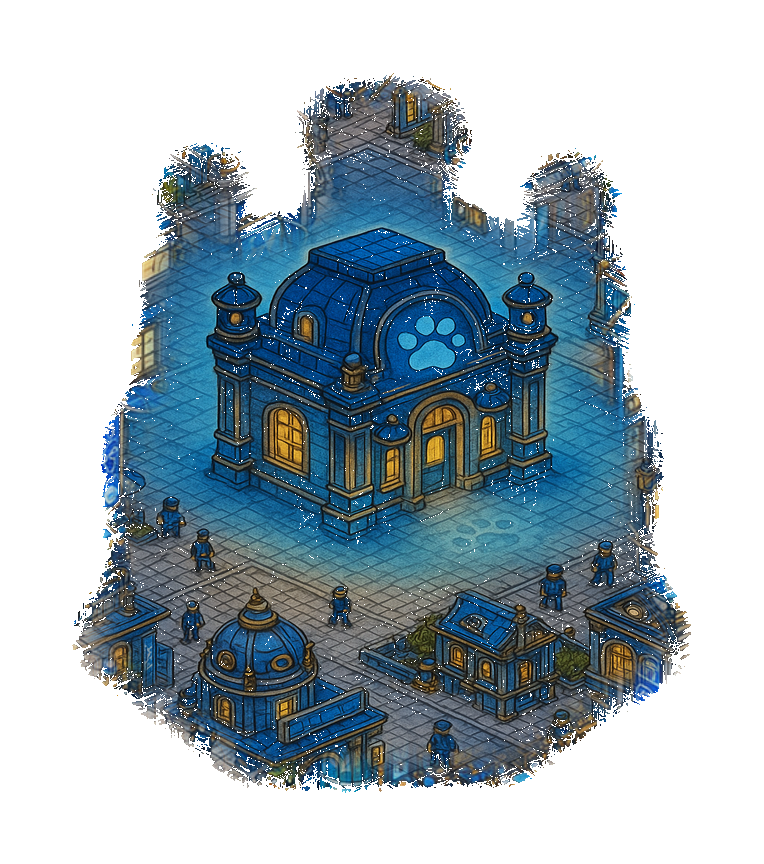
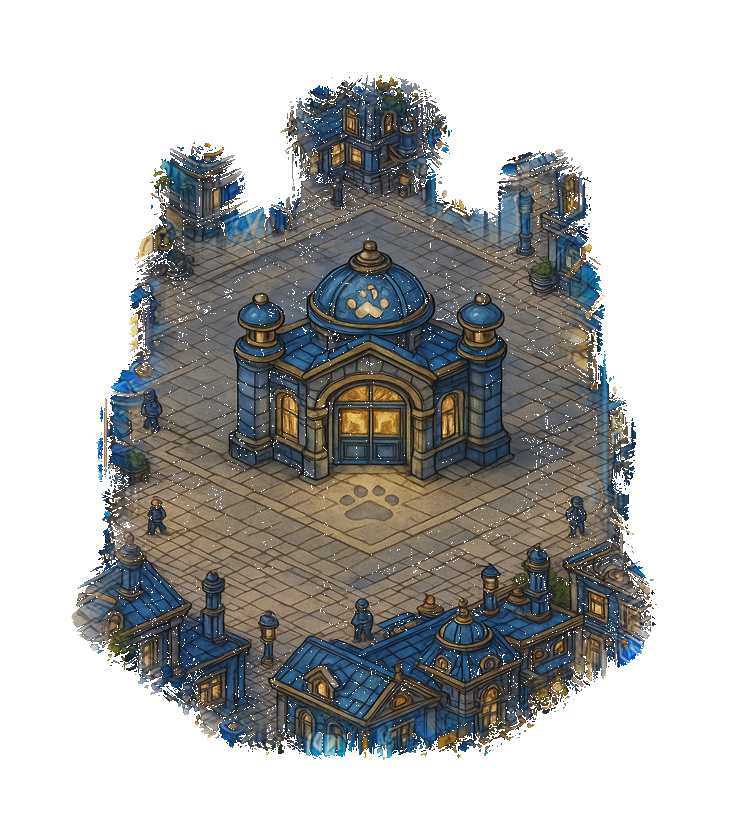
feat: refresh repaint art and move tourism kiosk
- tighten repaint prompts toward built landmark replacements
- lock in refreshed glyph halo art and appearance manifest updates
- move the Department of Tourism outside the town edge

diff --git a/lib/glyphHalo.ts b/lib/glyphHalo.ts
@@ -17,6 +17,7 @@ type GlyphHaloConfig = {
 
 type SpriteLike = {
   stopId: string;
+  district?: string;
   width: number;
   height: number;
   inpaintHalo?: GlyphHaloConfig;
@@ -38,19 +39,85 @@ const GLYPH_HALO_OUTPUT_ROOT = "/art/town/glyph-halos";
 const GLYPH_HALO_DEFAULT_RADIAL_SCALE = 1.2;
 const GLYPH_HALO_DEFAULT_PADDING = 24;
 const GLYPH_HALO_DEFAULT_THRESHOLD = 10;
+const GLYPH_HALO_SPREAD_TIGHTENING = 0.7;
+const LEGACY_OPEN_CENTER_SENTENCE =
+  /Keep the center composition open enough for the foreground .*?without doubling the silhouette\.\s*/;
+const BAKED_LANDMARK_SUFFIX =
+  "The final accepted state hides the separate foreground sprite, so do not leave an empty center or a placeholder halo. Recreate the landmark itself directly in the painted scene so the site still reads clearly and stays clickable after the sprite disappears. Ground it into the district art with solid structure, readable silhouette, and materials that belong to the environment.";
+const ARCHITECTURAL_LANDMARK_SUFFIX =
+  "Favor compact 3D landmark reads over flat graphics: small building, monument, statue, shrine, kiosk, tower, gate, pavilion, or civic marker integrated into the scene. Avoid floor decals, medallions, painted sigils, logos, abstract symbols, or mural-only solutions.";
+
+function humanizeHaloIdentifier(value: string) {
+  return value
+    .split(/[-_]+/)
+    .filter(Boolean)
+    .map((token) => token.charAt(0).toUpperCase() + token.slice(1))
+    .join(" ");
+}
+
+function defaultGlyphHaloDescription(sprite: SpriteLike) {
+  const districtName = humanizeHaloIdentifier(sprite.district ?? "town");
+  const stopName = humanizeHaloIdentifier(sprite.stopId);
+  return `Paint a native background integration layer for the ${stopName} glyph directly into the ${districtName} ground beneath it. Recreate the landmark itself as a compact building, monument, or statue that feels built into the district art: subtle material spill, soft ambient light, grounded shadowing, local texture wear, and environmental details that match the whimsical town style. Match the surrounding ${districtName} palette, perspective, texture density, and lighting so it feels painted into the map rather than pasted on. No readable text, no logos, no UI, no stickers, no hard outline. ${BAKED_LANDMARK_SUFFIX} ${ARCHITECTURAL_LANDMARK_SUFFIX}`;
+}
+
+function tightenGlyphHaloSpread(radialScale: number) {
+  if (radialScale <= 1) {
+    return 1;
+  }
+
+  // Keep the same base halo shape, but pull the extra spread back by 30%.
+  return 1 + (radialScale - 1) * GLYPH_HALO_SPREAD_TIGHTENING;
+}
+
+export function glyphHaloPromptForSprite(sprite: SpriteLike): string | null {
+  const halo = glyphHaloConfigForSprite(sprite);
+  if (!halo) {
+    return null;
+  }
+
+  let prompt = halo.description.trim();
+  prompt = prompt.replace(
+    "This is not the foreground glyph itself. Instead, create an opaque environmental halo that makes",
+    "Recreate the landmark itself directly inside the painted district art so it feels native to the map, and make",
+  );
+  prompt = prompt.replace(LEGACY_OPEN_CENTER_SENTENCE, "");
+
+  if (
+    !prompt.includes(
+      "The final accepted state hides the separate foreground sprite",
+    )
+  ) {
+    prompt = `${prompt} ${BAKED_LANDMARK_SUFFIX}`.trim();
+  }
+
+  if (!prompt.includes("Favor compact 3D landmark reads over flat graphics")) {
+    prompt = `${prompt} ${ARCHITECTURAL_LANDMARK_SUFFIX}`.trim();
+  }
+
+  return prompt;
+}
 
 export function glyphHaloConfigForSprite(
   sprite: SpriteLike,
 ): GlyphHaloConfig | null {
-  if (!sprite.inpaintHalo) return null;
+  if (!sprite.inpaintHalo) {
+    return {
+      description: defaultGlyphHaloDescription(sprite),
+    };
+  }
   if (sprite.inpaintHalo.enabled === false) return null;
   return sprite.inpaintHalo;
 }
 
 export function glyphHaloRadialScaleForSprite(sprite: SpriteLike) {
-  return Math.max(
-    1,
-    Number(sprite.inpaintHalo?.radialScale ?? GLYPH_HALO_DEFAULT_RADIAL_SCALE),
+  return tightenGlyphHaloSpread(
+    Math.max(
+      1,
+      Number(
+        sprite.inpaintHalo?.radialScale ?? GLYPH_HALO_DEFAULT_RADIAL_SCALE,
+      ),
+    ),
   );
 }
 

diff --git a/components/DepartmentOfTourism.tsx b/components/DepartmentOfTourism.tsx
@@ -15,7 +15,7 @@ export function DepartmentOfTourism({ onActivate }: Props) {
 
   return (
     <g
-      transform="translate(815, 618)"
+      transform="translate(1370, 285)"
       style={{ cursor: "pointer" }}
       onMouseEnter={() => setHovered(true)}
       onMouseLeave={() => setHovered(false)}

diff --git a/STATUS.md b/STATUS.md
@@ -1,5 +1,52 @@
 # Status
 
+## Done (2026-05-28) — Department Of Tourism Moved Outside Town Near The Graveyard Coast
+
+- Moved the Department of Tourism landmark out of Town Square and onto the grass strip east of The Graveyard so it now sits outside the town edge near the marked coastal spot.
+- Validation: `./scripts/deploy_app.sh` rebuilt successfully and brought the updated preview back up on `http://127.0.0.1:3742/` with the repaint runner on `http://127.0.0.1:3743`.
+
+## Done (2026-05-28) — Repaint Prompt Now Favors Built Landmarks And Uses Tighter Spread
+
+- Tightened the shared repaint prompt so future generations bias toward compact buildings, statues, shrines, kiosks, gates, and other 3D landmark reads instead of flat floor symbols or mural-like overlays.
+- Pulled the effective inpaint spread back by about 30 percent at the shared halo-math layer, so the repaint footprint reaches less aggressively into the surrounding district art.
+- Validation: `node scripts/apply-town-glyph-halo.mjs --id=razer-ripple --dry-run` confirmed the new building/statue prompt wording, `radialScale: 1.14`, and tighter `haloRayPadding`; dry-run artifacts were removed; `sm swab -g overconfidence:type-blindness.js --json --output-file .slopmop/last_swab.json` passed with `all_passed: true`.
+
+## Done (2026-05-28) — Local Repaint Trail Is Ignored
+
+- Added repo ignore rules for the local repaint backup snapshots and append-only audit log so the branch stays clean after using the live repaint authoring flow.
+- Validation target is `git status --short`: the repaint trail should disappear from status once the new ignore rules are in place.
+
+## Done (2026-05-28) — Replacement Repaints No Longer Draw A Marker On Top
+
+- Fixed the stage render path so a live preview or accepted replacement underlay now actually replaces the foreground marker instead of rendering underneath it. The old sprite is no longer drawn on top while reviewing or after acceptance.
+- Also corrected the already-accepted `10000_years_of_solitude` appearance record so rebuilds keep treating it as `background-only` even without the live sidecar state.
+- Validation: `sm swab -g overconfidence:type-blindness.js --json --output-file .slopmop/last_swab.json` passed with `all_passed: true`; rebuilt locally with `scripts/deploy_app.sh`, now live again on `http://127.0.0.1:3740/` with the repaint runner on `http://127.0.0.1:3741/`.
+
+## Done (2026-05-28) — Cancel Works Mid-Run And Accept Hides The Separate Glyph
+
+- Fixed the repaint planner control bug so `Cancel Run` is no longer disabled during the actual live run. The UI now tracks in-flight control actions separately from the pipeline's own `running` state, so cancel stays clickable while the generation is underway.
+- Updated the repaint flow so accepted previews are the final baked version of the site. The generator prompt now tells the art pass to recreate the landmark directly in the painted scene instead of leaving an empty center for a foreground sprite, and `Accept` now switches the site to `background-only` so the separate glyph disappears after approval.
+- Validation: `node scripts/apply-town-glyph-halo.mjs --id=10000_years_of_solitude --dry-run` confirmed the new baked-landmark prompt and the removal of the old open-center wording; generated dry-run artifacts were removed; `node --check scripts/repaint-pipeline-server.mjs` passed; `sm swab -g overconfidence:type-blindness.js --json --output-file .slopmop/last_swab.json` passed with `all_passed: true`; rebuilt locally with `scripts/deploy_app.sh`, now live on `http://127.0.0.1:3742/` with the repaint runner on `http://127.0.0.1:3743/`.
+
+## Done (2026-05-28) — Sprite-Backed Sites Now Get A Default Live Repaint Config
+
+- Closed the last dead-end in the repaint planner by giving any site with a sprite config a sane default halo prompt and default crop behavior, instead of requiring a hand-written `inpaintHalo` block before the live pipeline can even start.
+- The shared repaint support check and the local sidecar now agree on that rule, so the planner no longer says a sprite-backed site is unsupported just because it has not been tuned yet. Explicitly disabled repaint configs still stay disabled.
+- Validation: `node scripts/apply-town-glyph-halo.mjs --id=10000_years_of_solitude --dry-run` passed and produced a real summary instead of the old missing-config failure; `node --check scripts/repaint-pipeline-server.mjs` passed; `sm swab -g overconfidence:type-blindness.js --json --output-file .slopmop/last_swab.json` passed with `all_passed: true`; local preview was rebuilt with `scripts/deploy_app.sh` and is live again on `http://127.0.0.1:3740/` with the repaint runner on `http://127.0.0.1:3741/`.
+
+## Done (2026-05-28) — Live Repaint Runner Streams Real CLI Output And Uses Review Gates
+
+- The repaint flow in `/reposition/` now runs the real local art pipeline instead of only flipping in-memory queue state. A local sidecar starts with `scripts/deploy_app.sh`, executes the repaint CLI, streams stdout/stderr back into the planner, and exposes the live candidate underlay for map preview.
+- The preview phase is now intentionally non-destructive to the appearance manifest: generating a candidate only changes the candidate art file. `Accept` is the step that locks the manifest/cache-key change in, while `Reject` restores the previous underlay backup. That matches the intended review gate instead of mutating source-of-truth files too early.
+- Unsupported sites are blocked up front. If a stop has no enabled `inpaintHalo` config, the planner now says so before any live run starts.
+- Validation: `node --check scripts/repaint-pipeline-server.mjs` passed; `bash -n scripts/deploy_app.sh` passed; `sm swab -g overconfidence:type-blindness.js --json --output-file .slopmop/last_swab.json` passed; full `sm swab --json --output-file .slopmop/last_swab.json` passed with `all_passed: true`. Live smoke checks on local deploys confirmed: unsupported stops are disabled, supported stops stream real CLI output from `apply-town-glyph-halo.mjs`, preview generation leaves `data/town-site-appearance.v1.json` untouched until accept, and rejecting a candidate restores the underlay artifact cleanly.
+
+## Done (2026-05-28) — Repaint Queue Is Single-Slot And Has A Real Done State
+
+- Locked the repaint flow to a single global slot instead of letting the planner imply a bigger queue than we actually want to support.
+- The planner now queues only the currently selected site, shows when that one slot is occupied, blocks every other queue attempt while it is full, and exposes a `Mark Repaint Done` action so the slot can be reopened after the external repaint work lands.
+- Validation: `sm swab -g overconfidence:type-blindness.js --json --output-file .slopmop/last_swab.json` passed; rebuilt with `scripts/deploy_app.sh`; live `/reposition/?site_type=desktop` showed `Queued for Repaint`, `Mark Repaint Done`, and the single-slot helper copy; clicking `Mark Repaint Done` reopened the queue; `/api/reposition?limit=5` returned `capacity: 1`, `available: true`, `activeJob: null`, and preserved audit history after clearing.
+
 ## Done (2026-05-28) — Planner Can Queue The Selected Site Without Moving It First
 
 - Closed the queue-affordance gap in `/reposition/`: the planner now queues the currently selected site even when `Modified Sites` is still `0`, instead of requiring a drag before the button wakes up.
